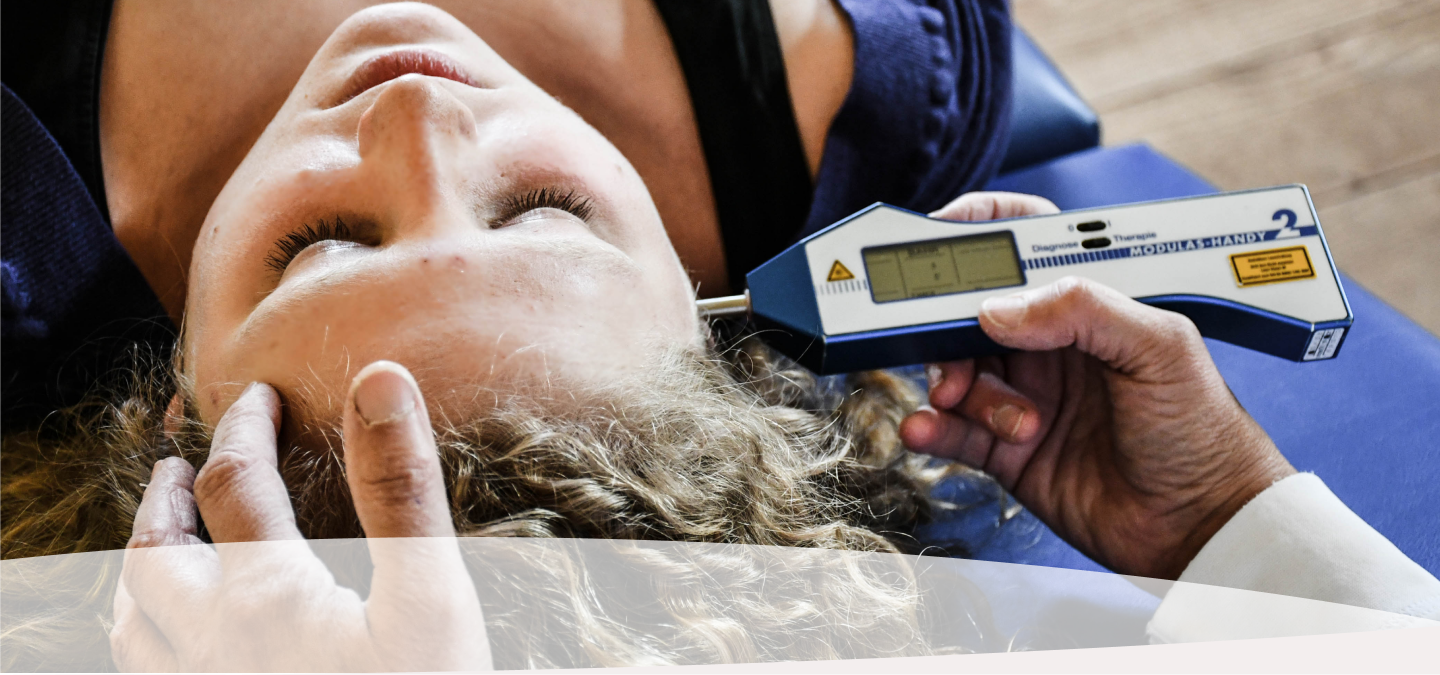
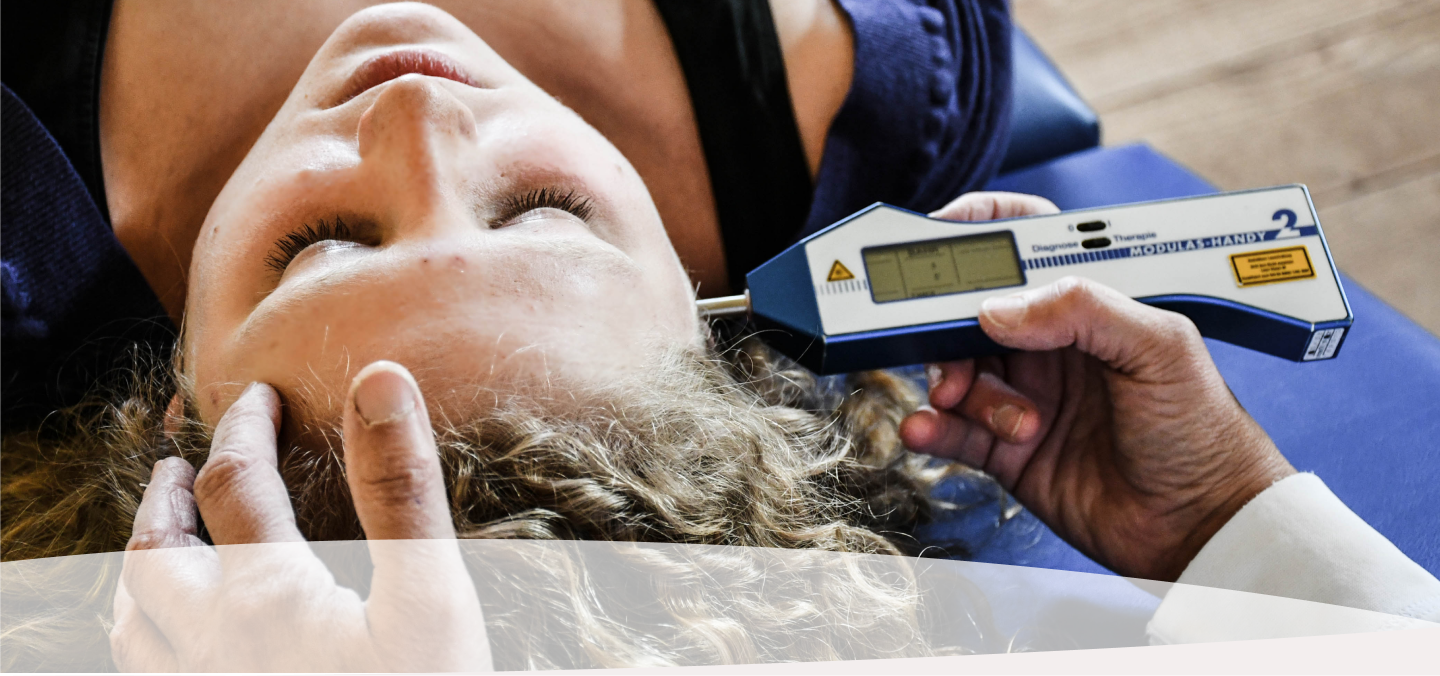
pics

diff --git a/mikrobiologie.html b/mikrobiologie.html
@@ -55,7 +55,7 @@
                 </script>
     </div> 
 
-    <img class= "pic-therapie-header" src='picutres/Banner/Mikrobiologie.jpg'>
+    <img class= "pic-therapie-header" src='picutres/Banner/Mikrobiologie.png'>
     <!--<img class= "background-therapie-header" src='Therapie_header_background.png'> -->
 
     <div class= "title-therapie"> 

diff --git a/homoeopathie.html b/homoeopathie.html
@@ -55,7 +55,7 @@
                 </script>
     </div> 
 
-    <img class= "pic-therapie-header" src='picutres/Banner/Homoeopathie.jpg'>
+    <img class= "pic-therapie-header" src='picutres/Banner/Homoeopathie.png'>
     <!--<img class= "background-therapie-header" src='Therapie_header_background.png'> -->
 
     <div class= "title-therapie"> 

diff --git a/akupunktur.html b/akupunktur.html
@@ -55,7 +55,7 @@
                 </script>
     </div>  
 
-    <img class= "pic-therapie-header" src='picutres/Banner/Akupunktur.jpg'>
+    <img class= "pic-therapie-header" src='picutres/Banner/Akupunktur.png'>
     <!--<img class= "background-therapie-header" src='Therapie_header_background.png'> -->
 
     <div class= "title-therapie"> 

diff --git a/ernaerung.html b/ernaerung.html
@@ -55,7 +55,7 @@
                 </script>
     </div> 
 
-    <img class= "pic-therapie-header" src='picutres/Banner/Ernaehrung.jpg'>
+    <img class= "pic-therapie-header" src='picutres/Banner/Ernaehrung.png'>
     <!--<img class= "background-therapie-header" src='Therapie_header_background.png'> -->
 
     <div class= "title-therapie"> 

diff --git a/weitereMethoden.html b/weitereMethoden.html
@@ -55,7 +55,7 @@
                 </script>
     </div> 
     
-    <img class= "pic-therapie-header" src='picutres/Banner/Weitere.jpg'>
+    <img class= "pic-therapie-header" src='picutres/Banner/Weitere.png'>
     <!--<img class= "background-therapie-header" src='Therapie_header_background.png'> -->
 
     <div class= "title-therapie"> 
